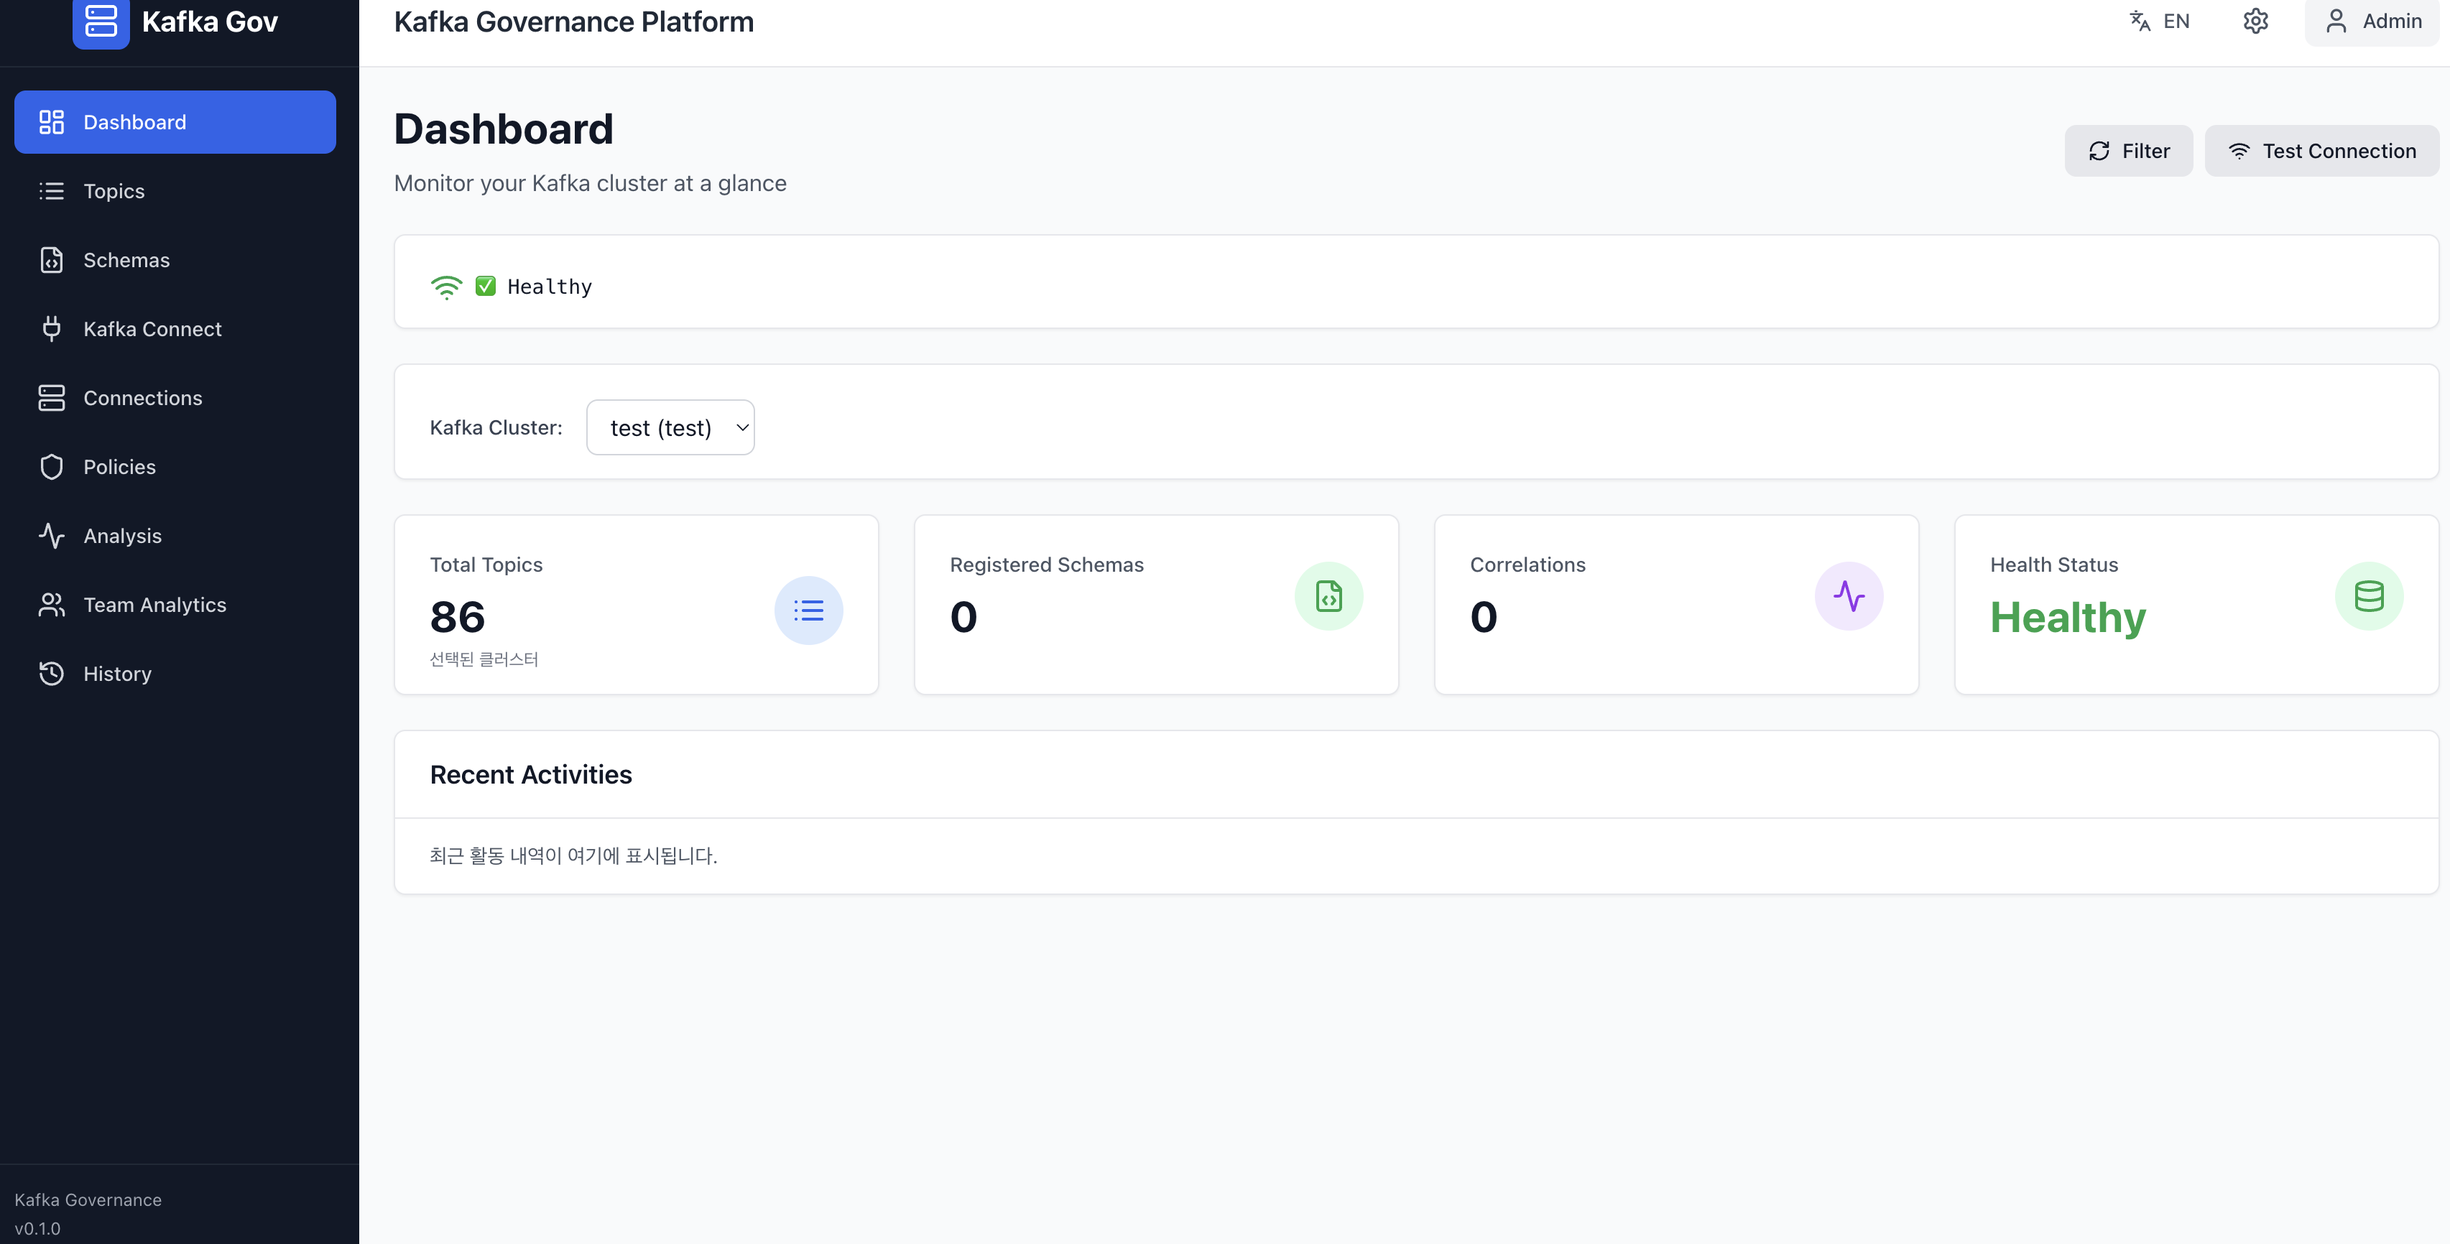
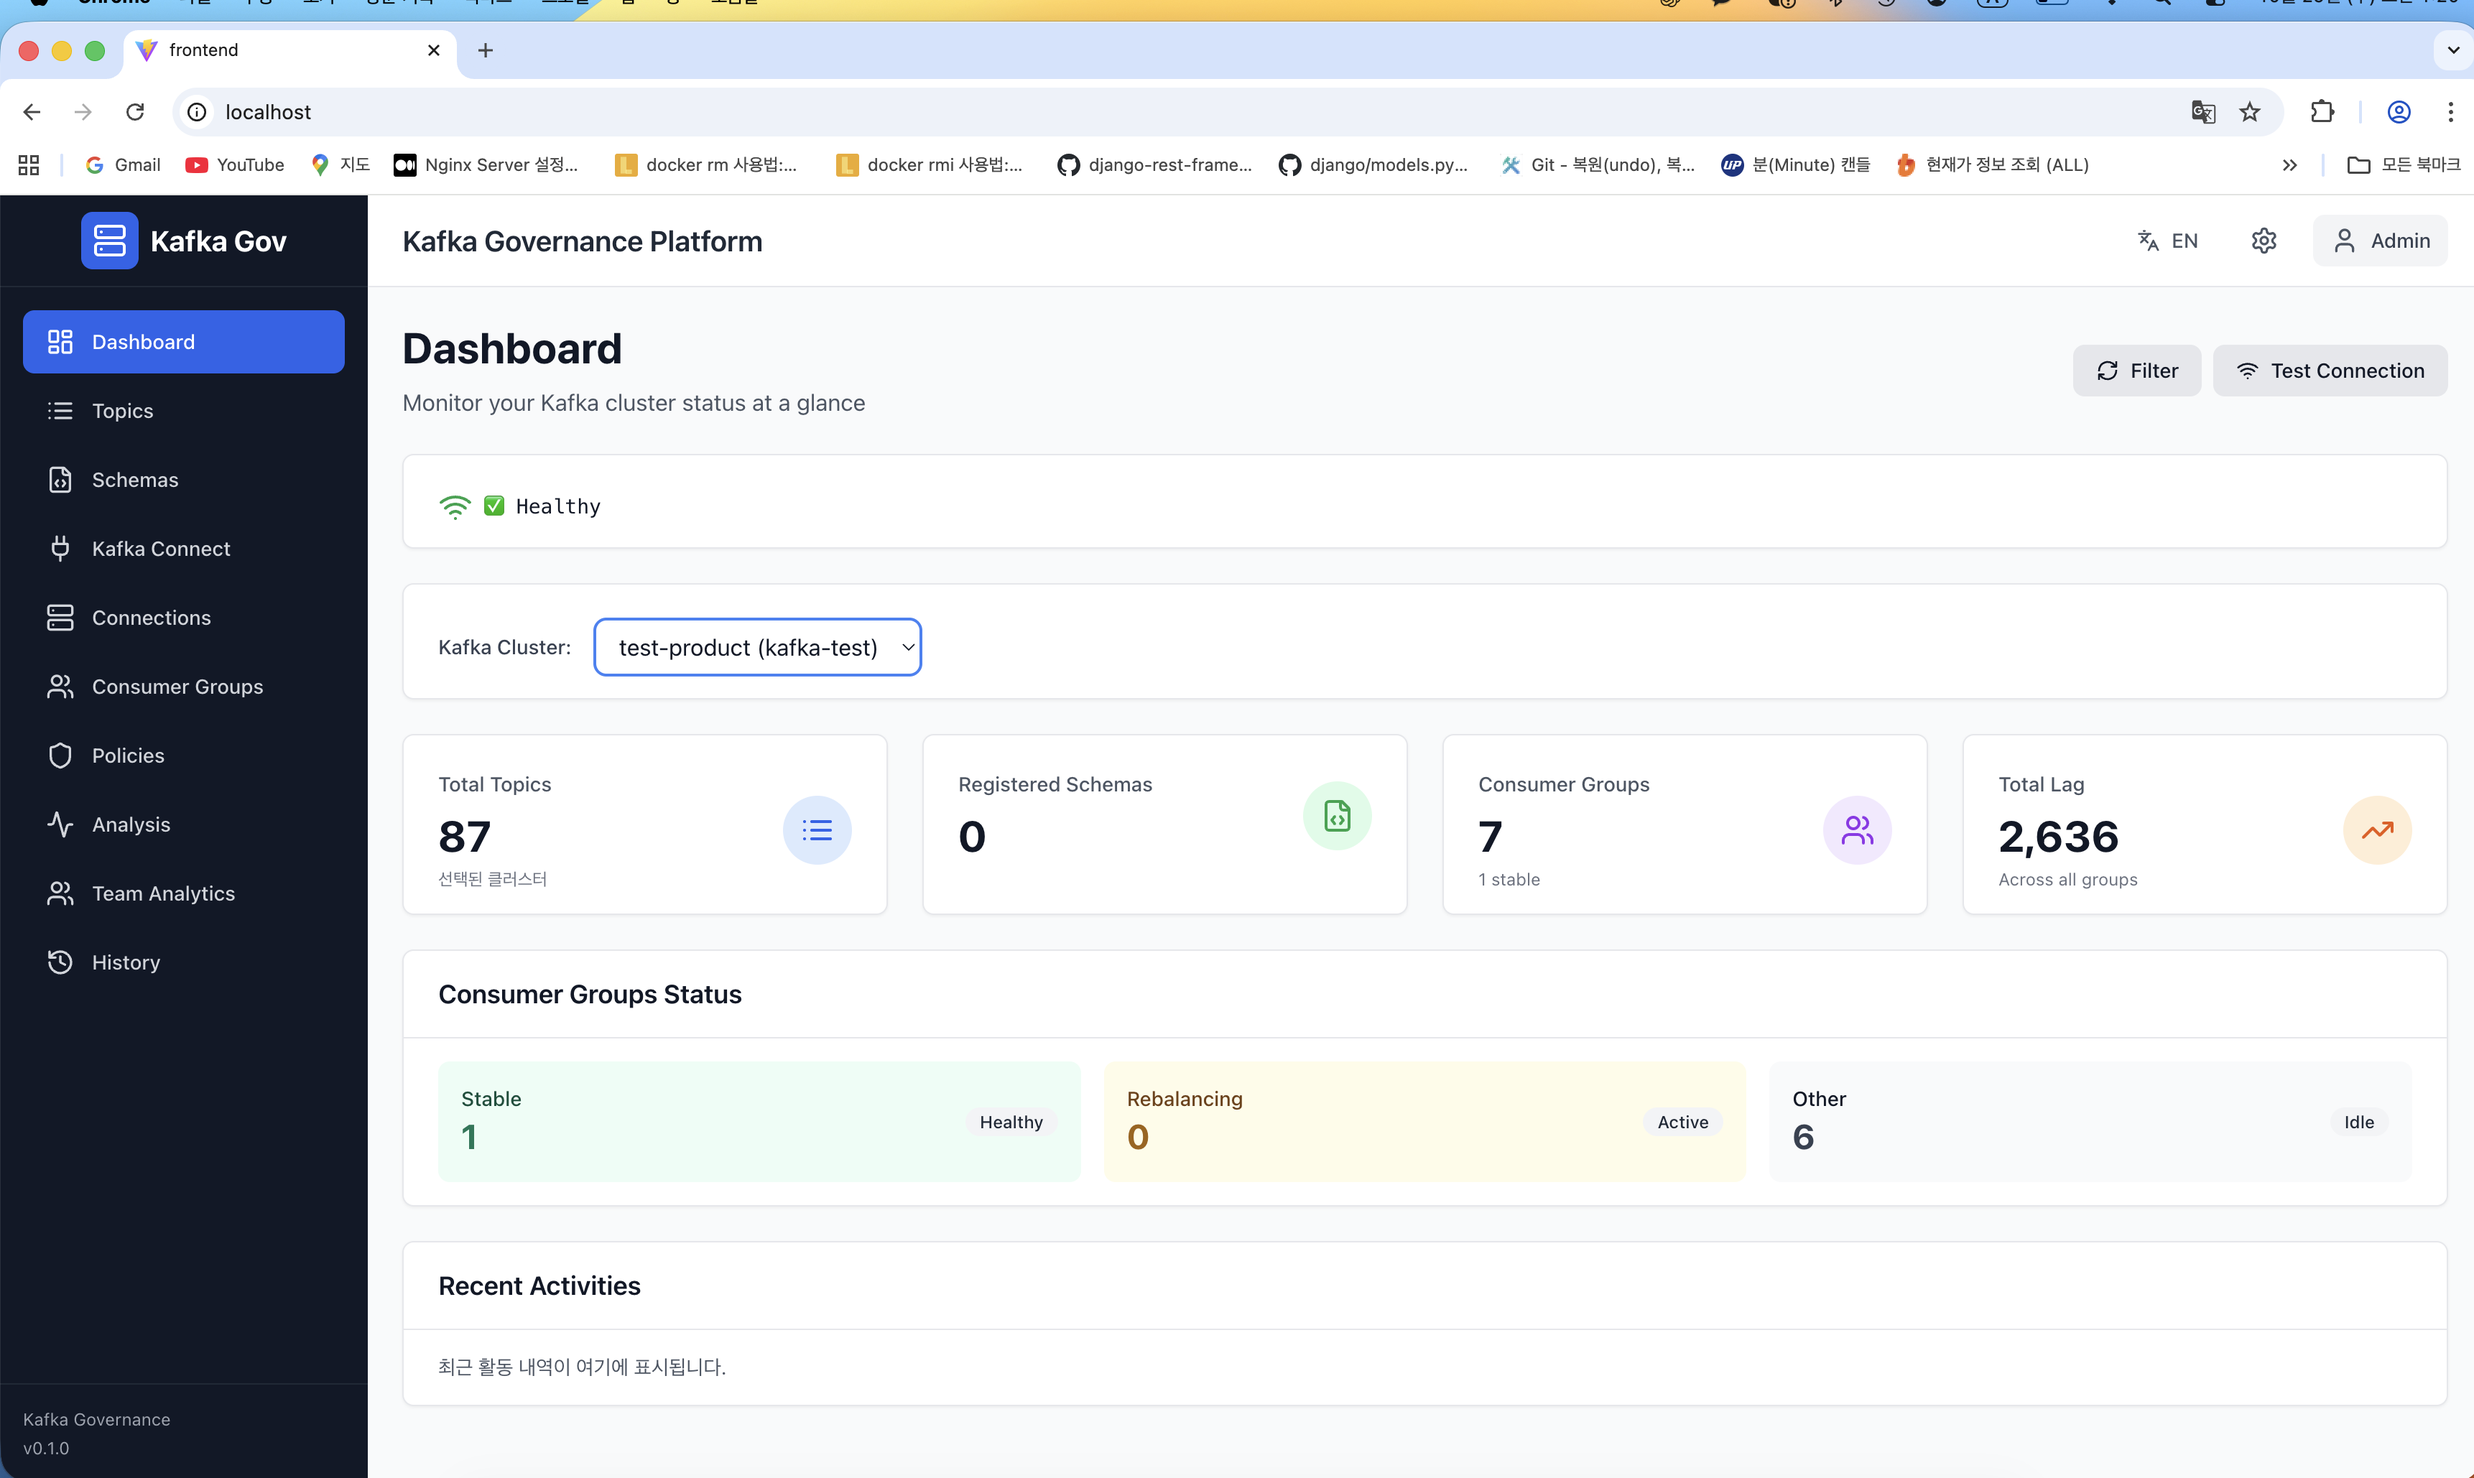
style: readme.md-i18n

diff --git a/frontend/src/pages/Dashboard.tsx b/frontend/src/pages/Dashboard.tsx
@@ -5,7 +5,7 @@ import { Card, CardContent, CardHeader, CardTitle } from "../components/ui/Card"
 import Button from "../components/ui/Button";
 import Loading from "../components/ui/Loading";
 import Badge from "../components/ui/Badge";
-import { analysisAPI, testAPIConnection, topicsAPI, clustersAPI, consumerAPI } from "../services/api";
+import { analysisAPI, testAPIConnection, topicsAPI, clustersAPI, consumerAPI, schemasAPI } from "../services/api";
 import { FileCode, List, Wifi, RefreshCw, Users, TrendingUp } from "lucide-react";
 import type { Statistics, KafkaCluster, ConsumerGroup } from "../types";
 
@@ -15,6 +15,7 @@ export default function Dashboard() {
   const [clusters, setClusters] = useState<KafkaCluster[]>([]);
   const [selectedCluster, setSelectedCluster] = useState<string>("");
   const [topicCount, setTopicCount] = useState<number>(0);
+  const [schemaCount, setSchemaCount] = useState<number>(0);
   const [consumerGroups, setConsumerGroups] = useState<ConsumerGroup[]>([]);
   const [loading, setLoading] = useState(true);
   const [syncing, setSyncing] = useState(false);
@@ -23,6 +24,7 @@ export default function Dashboard() {
   useEffect(() => {
     loadClusters();
     loadStatistics();
+    loadSchemas();
     checkConnection();
     // eslint-disable-next-line react-hooks/exhaustive-deps
   }, []);
@@ -101,10 +103,20 @@ export default function Dashboard() {
     }
   };
 
+  const loadSchemas = async () => {
+    try {
+      const response = await schemasAPI.list();
+      setSchemaCount(response.data.length);
+    } catch (error) {
+      console.error("Failed to load schemas:", error);
+      setSchemaCount(0);
+    }
+  };
+
   const handleSync = async () => {
     try {
       setSyncing(true);
-      await Promise.all([loadStatistics(), loadTopicCount(), loadConsumerGroups()]);
+      await Promise.all([loadStatistics(), loadTopicCount(), loadConsumerGroups(), loadSchemas()]);
       toast.success(t('common.success'), {
         description: t('dashboard.subtitle')
       });
@@ -214,7 +226,7 @@ export default function Dashboard() {
                   {t('dashboard.registeredSchemas')}
                 </p>
                 <p className="mt-2 text-3xl font-bold text-gray-900">
-                  {stats?.schema_count || 0}
+                  {schemaCount}
                 </p>
               </div>
               <div className="rounded-full bg-green-100 p-3">

diff --git a/app/consumer/application/use_cases/topic_detail.py b/app/consumer/application/use_cases/topic_detail.py
@@ -19,6 +19,7 @@ from app.consumer.interface.schema.topic_detail_schema import (
     TopicConsumerInsight,
     TopicDetailWithConsumerHealthResponse,
 )
+from app.shared.i18n.translator import t
 
 
 class GetTopicDetailWithConsumerHealthUseCase:
@@ -243,7 +244,11 @@ class GetTopicDetailWithConsumerHealthUseCase:
                 GovernanceAlert(
                     severity="warning",
                     consumer_group=group_id,
-                    message=f"SLO 미달 (현재: {health.slo_compliance * 100:.1f}%, 기준: {self.SLO_COMPLIANCE_MIN * 100:.0f}%)",
+                    message=t(
+                        "consumer.governance.slo_violation",
+                        current=f"{health.slo_compliance * 100:.1f}",
+                        threshold=f"{self.SLO_COMPLIANCE_MIN * 100:.0f}",
+                    ),
                     metric="slo",
                 )
             )
@@ -254,7 +259,7 @@ class GetTopicDetailWithConsumerHealthUseCase:
                 GovernanceAlert(
                     severity="error",
                     consumer_group=group_id,
-                    message=f"Stuck partition 감지 ({health.stuck_count}개)",
+                    message=t("consumer.governance.stuck_partitions", count=health.stuck_count),
                     metric="stuck",
                 )
             )
@@ -265,7 +270,10 @@ class GetTopicDetailWithConsumerHealthUseCase:
                 GovernanceAlert(
                     severity="warning",
                     consumer_group=group_id,
-                    message=f"Rebalance 불안정 (점수: {health.rebalance_score:.1f}/100)",
+                    message=t(
+                        "consumer.governance.rebalance_instability",
+                        score=f"{health.rebalance_score:.1f}",
+                    ),
                     metric="rebalance",
                 )
             )
@@ -276,7 +284,10 @@ class GetTopicDetailWithConsumerHealthUseCase:
                 GovernanceAlert(
                     severity="info",
                     consumer_group=group_id,
-                    message=f"파티션 분배 불균형 (Gini: {health.fairness_gini:.2f})",
+                    message=t(
+                        "consumer.governance.unfair_distribution",
+                        gini=f"{health.fairness_gini:.2f}",
+                    ),
                     metric="fairness",
                 )
             )
@@ -375,14 +386,19 @@ class GetTopicDetailWithConsumerHealthUseCase:
     ) -> str:
         """한 줄 요약 생성"""
         if unhealthy == 0 and stuck == 0:
-            return f"✅ {total}개 Consumer Group 모두 정상 운영 중 (평균 SLO: {avg_slo * 100:.1f}%)"
+            return f"✅ {t('consumer.governance.summary_all_healthy')}"
 
         issues = []
         if unhealthy > 0:
-            issues.append(f"{unhealthy}개 Consumer Group이 SLO 미달")
+            issues.append(t("consumer.governance.summary_slo_violation", count=unhealthy))
         if stuck > 0:
-            issues.append(f"{stuck}개 Stuck Partition 감지")
+            issues.append(t("consumer.governance.summary_stuck_partitions", count=stuck))
         if consumed_partitions < total_partitions:
-            issues.append(f"{total_partitions - consumed_partitions}개 파티션이 소비되지 않음")
+            issues.append(
+                t(
+                    "consumer.governance.summary_unconsumed_partitions",
+                    count=total_partitions - consumed_partitions,
+                )
+            )
 
         return f"⚠ {', '.join(issues)}"

diff --git a/app/consumer/README.md b/app/consumer/README.md
@@ -1,0 +1,245 @@
+# 👥 Consumer Module
+
+실시간 컨슈머 그룹 모니터링 및 거버넌스 인사이트
+
+## Structure
+
+```
+consumer/
+├── domain/
+│   ├── models/              # ConsumerGroup, Member, Partition
+│   ├── services/            # Lag, Rebalance, Fairness 분석
+│   ├── thresholds.py        # SLO/SLA 임계값 정의
+│   ├── types_enum.py        # State, Assignor 타입
+│   └── value_objects.py     # LagMetrics, PartitionAssignment
+├── application/
+│   ├── services/            # Consumer health, snapshot 서비스
+│   └── use_cases/
+│       ├── query.py         # Consumer group 조회
+│       ├── topic_detail.py  # Topic + Consumer Health 통합
+│       ├── metrics.py       # Lag, Fairness, Rebalance 메트릭
+│       ├── list_groups.py   # Consumer group 목록
+│       ├── topic_stats.py   # Topic 통계
+│       └── collect_snapshot.py  # Snapshot 수집
+├── infrastructure/
+│   ├── kafka_consumer_repository.py  # AdminClient 기반 조회
+│   └── snapshot_repository.py        # PostgreSQL 스냅샷 저장
+└── interface/
+    ├── routes/
+    │   ├── consumer_routes.py   # REST API
+    │   └── websocket_routes.py  # 실시간 모니터링
+    └── schema/                  # Pydantic 스키마
+```
+
+## Core Features
+
+### 📊 Consumer Group Monitoring
+- **State Tracking**: Stable, Rebalancing, Empty, Dead
+- **Member Info**: Client ID, Host, 파티션 할당
+- **Lag Metrics**: P50, P95, Max, Total
+- **Assignor**: Range, RoundRobin, Sticky, CooperativeSticky
+
+### 🎯 Governance Insights
+- **SLO Compliance**: 목표 SLA 준수율 계산 (기본: 95%)
+- **Stuck Partition Detection**: 지정 시간 동안 Lag 증가하는 파티션 감지
+- **Rebalance Score**: 리밸런스 안정성 점수 (0-100)
+- **Fairness Index**: Gini 계수로 파티션 분배 공정성 측정 (0=완전공정, 1=불공정)
+
+### 🚨 Real-time Alerts
+- **SLO Violation**: SLO 준수율 미달 경고
+- **Stuck Partitions**: Lag이 지속 증가하는 파티션 알림
+- **Rebalance Instability**: 빈번한 리밸런스 발생 경고
+- **Unfair Distribution**: 불공정한 파티션 분배 감지
+
+### 📈 Topic-Level Analysis
+- **Consumer Health Summary**: 토픽을 소비하는 모든 Consumer Group의 헬스 상태
+- **Coverage**: 전체 파티션 중 소비되는 파티션 비율
+- **Aggregated Metrics**: 평균 SLO, 총 Stuck 파티션, 전체 상태 요약
+
+## API Endpoints
+
+### Consumer Group Operations (`/api/v1/consumers`)
+
+**REST API**:
+- `GET /groups` - Consumer group 목록 조회 (`?cluster_id=`)
+- `GET /groups/{group_id}` - Consumer group 상세 (`?cluster_id=`)
+- `GET /groups/{group_id}/health` - Health 메트릭 (Lag, SLO, Fairness)
+- `GET /topics/{topic_name}/consumers` - 토픽을 소비하는 Consumer group 목록
+- `GET /topics/{topic_name}/detail` - Topic + Consumer Health 통합 뷰
+
+**WebSocket**:
+- `WS /ws/consumers/groups/{group_id}/live` - 실시간 모니터링
+  - Query params: `cluster_id`, `interval` (초)
+  - 주기적으로 Lag, State, Member 정보 스트리밍
+
+## Domain Models
+
+### ConsumerGroup
+```python
+@dataclass
+class ConsumerGroup:
+    cluster_id: str
+    group_id: str
+    state: ConsumerGroupState  # Stable, Rebalancing, Empty, Dead
+    members: list[ConsumerMember]
+    partition_assignor: str
+    topics: list[str]
+```
+
+### LagMetrics
+```python
+@dataclass
+class LagMetrics:
+    lag_p50: int      # Median lag
+    lag_p95: int      # 95th percentile lag
+    lag_max: int      # Maximum lag
+    total_lag: int    # Sum of all lags
+```
+
+### ConsumerHealthSummary
+```python
+@dataclass
+class ConsumerHealthSummary:
+    group_id: str
+    state: str
+    slo_compliance: float         # 0.0 ~ 1.0
+    rebalance_score: float | None # 0 ~ 100
+    fairness_gini: float          # 0.0 ~ 1.0
+    stuck_count: int
+    recommendation: str | None
+```
+
+## Metrics Calculation
+
+### SLO Compliance
+```python
+# Lag P95 < threshold인 파티션 비율
+slo_compliance = (partitions_under_threshold / total_partitions) * 100
+```
+
+### Fairness Index (Gini Coefficient)
+```python
+# 0 = 완전 공정, 1 = 완전 불공정
+# 각 멤버의 파티션 할당 개수 분포로 계산
+gini = calculate_gini(partition_counts_per_member)
+```
+
+### Rebalance Score
+```python
+# 최근 N개 스냅샷의 리밸런스 이력 기반
+# 안정적 = 100, 빈번한 리밸런스 = 0
+score = 100 - (rebalance_count / max_rebalances * 100)
+```
+
+## Thresholds (Configurable)
+
+```python
+SLO_THRESHOLD_P95_LAG = 1000        # P95 Lag 임계값 (ms)
+SLO_COMPLIANCE_MIN = 0.95           # 최소 SLO 준수율
+REBALANCE_SCORE_MIN = 70            # 최소 리밸런스 점수
+FAIRNESS_GINI_MAX = 0.3             # 최대 Gini 계수
+STUCK_DETECTION_WINDOW = 5 * 60     # Stuck 감지 시간 (초)
+```
+
+## Use Cases
+
+### 1. Topic Detail with Consumer Health
+토픽 상세 정보와 해당 토픽을 소비하는 모든 Consumer Group의 Health를 통합 조회
+
+```python
+use_case = GetTopicDetailWithConsumerHealthUseCase(...)
+result = await use_case.execute(cluster_id, topic_name)
+# → TopicDetailWithConsumerHealthResponse
+```
+
+**Response**:
+- Topic info (partitions, replication, retention)
+- Consumer health list (각 group의 SLO, Lag, Fairness)
+- Governance alerts (SLO 미달, Stuck 파티션 등)
+- Insight summary (전체 상태 요약)
+
+### 2. Real-time Live Monitoring
+WebSocket을 통한 실시간 Consumer Group 모니터링
+
+```python
+# WebSocket: /ws/consumers/groups/{group_id}/live?cluster_id=X&interval=10
+# 10초마다 자동으로 최신 상태 전송
+```
+
+### 3. Consumer Group List
+클러스터의 모든 Consumer Group 목록 조회 (Lag 통계 포함)
+
+```python
+use_case = ListConsumerGroupsUseCase(...)
+groups = await use_case.execute(cluster_id)
+# → List[ConsumerGroupWithLagResponse]
+```
+
+## Integration Points
+
+### With Topic Module
+- Topic 상세 페이지에서 Consumer Health 표시
+- Topic 생성/삭제 시 Consumer Group 영향 분석
+
+### With Analysis Module
+- Consumer lag 추세 분석
+- Team별 Consumer Group 통계
+
+### With Snapshot
+- 주기적 스냅샷 수집 (Lag, Rebalance 이력)
+- 시계열 데이터 기반 Rebalance Score 계산
+
+## Event-Driven Architecture
+
+**Domain Events** (향후 확장):
+- `consumer.rebalanced` - 리밸런스 발생 시
+- `consumer.lag_spike` - Lag 급증 시
+- `consumer.slo_violated` - SLO 위반 시
+
+## Frontend Integration
+
+### Dashboard
+- Consumer Groups 카드: 총 그룹 수, Stable/Rebalancing/Other 상태별 분포
+- Total Lag 메트릭
+
+### Topic Detail Page
+- 📊 Governance Insights: 전체 Consumer Health 요약
+- 🚨 Governance Alerts: 실시간 경고 목록
+- 👥 Consumer Groups Health: 각 그룹의 상세 메트릭
+
+### Consumer List Page
+- Consumer Group 목록
+- Lag 통계 (P50, P95, Max, Total)
+- State, Members, Topics
+
+### WebSocket Monitoring
+- 실시간 Lag 차트
+- Member 변경 감지
+- State 변화 알림
+
+## Testing
+
+```bash
+# 단위 테스트
+pytest tests/consumer/
+
+# 특정 테스트
+pytest tests/consumer/test_metrics.py
+pytest tests/consumer/test_topic_detail.py
+```
+
+## Performance Considerations
+
+- **Lag 계산**: Kafka AdminClient의 `list_consumer_group_offsets()` 사용
+- **Batch 조회**: 여러 Consumer Group을 한 번에 조회하여 API 호출 최소화
+- **Caching**: 짧은 TTL (5-10초)로 반복 조회 최적화
+- **WebSocket**: 클라이언트가 지정한 interval로 polling 빈도 조절
+
+## Roadmap
+
+- [ ] Historical lag trend chart
+- [ ] Consumer Group creation/deletion
+- [ ] Partition reassignment UI
+- [ ] Lag alert threshold per topic
+- [ ] Auto-scaling recommendation based on lag
+- [ ] Consumer Group ACL management
